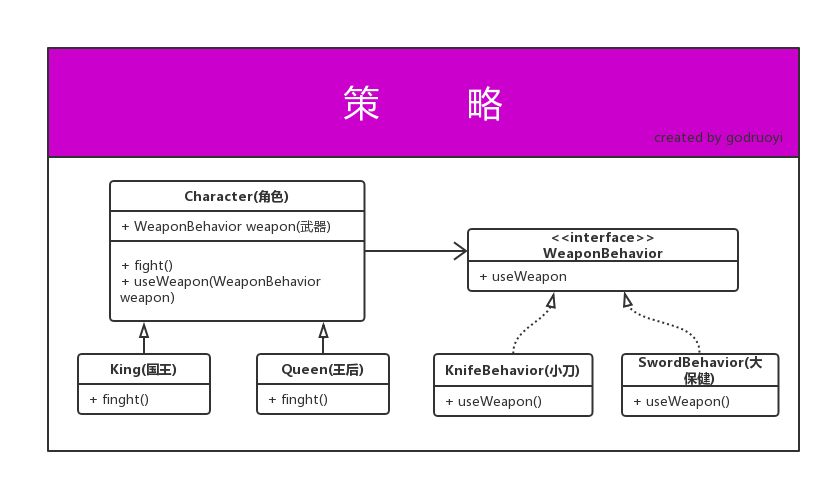
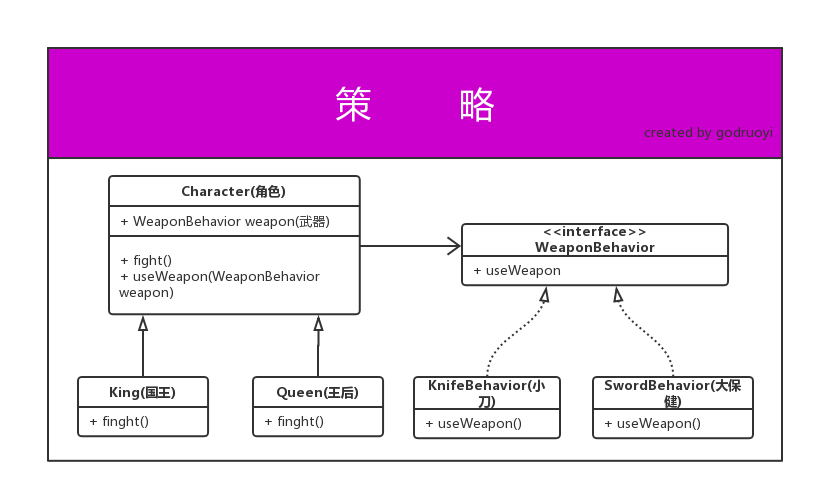
Updates behavior.md
Auto commit by GitBook Editor

diff --git a/behavior.md b/behavior.md
@@ -8,7 +8,7 @@
 
 类图设计如下
 
-![](/assets/策略模式.png)
+![](/assets/策略模式 %281%29.png)
 
 ```php
 interface WeaponBehavior
